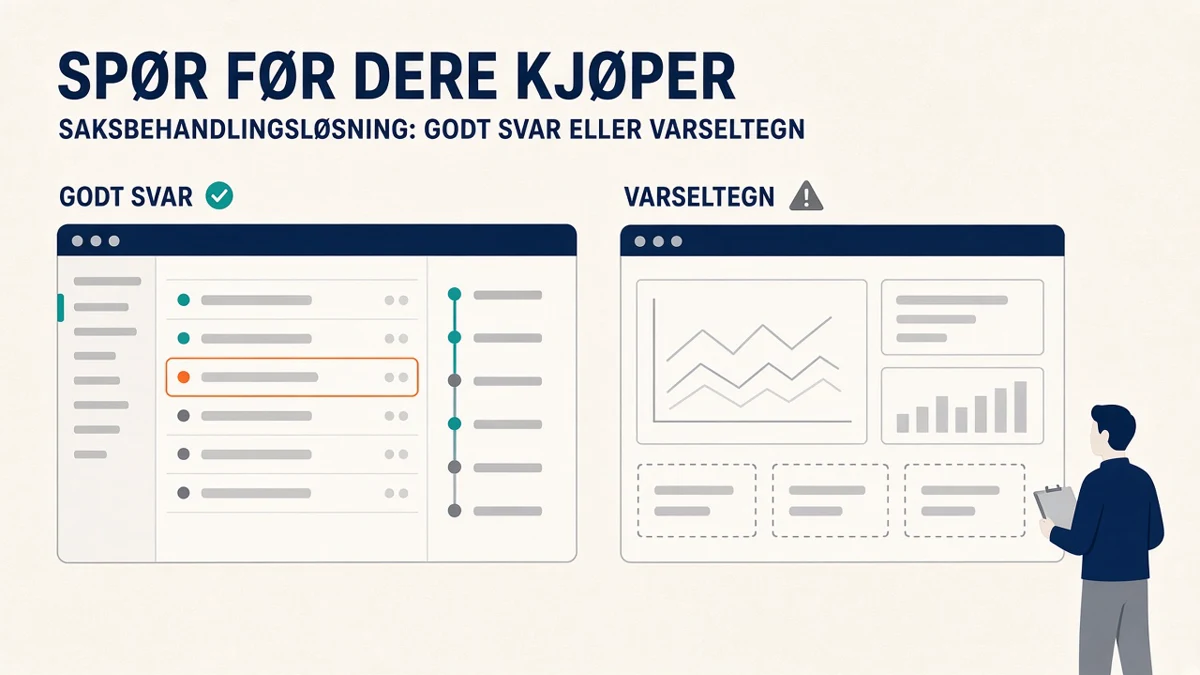
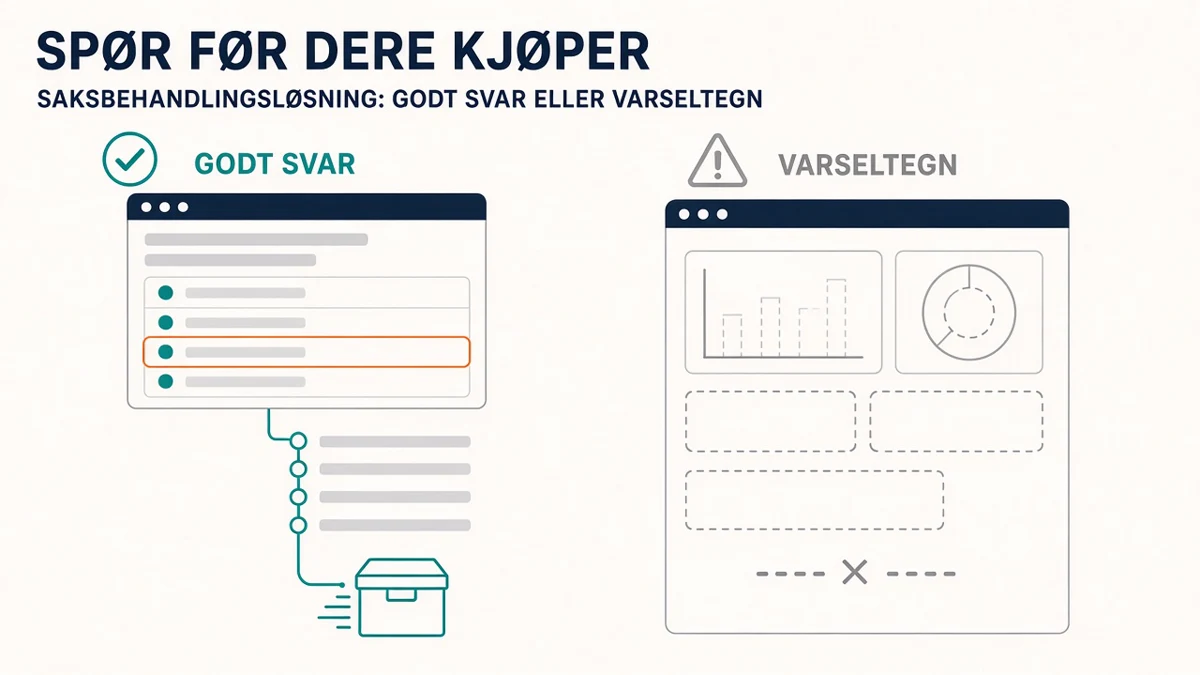
Follow-up to #190: table swipe hint a11y and gender-neutral copy (#191)
* Follow-up to #190: gender-neutral copy in saksbehandlingsløsning post

The mobile table swipe hint already has aria-hidden="true" in the shared
ArticleMarkdown wrapper (SPA and prerender). Rewrite one sentence that used
generic «hun» to gender-neutral Bokmål.

* Swap saksbehandlingsløsning cover and bust og:image cache

Replace the blog cover with the diagram-only 1200x675 webp. Add ?v=2 to the
post cover frontmatter so og:image, the hero img and prerendered HTML fetch the
new file despite one-year image cache headers. Use the approved gender-neutral
sentence with «for hånd».

* Fix XWEB-211 table node leak and rename supplier-meeting H2

Strip react-markdown's internal node prop from table/th/td overrides so it
never reaches the DOM in SPA or prerender output. Rename the H2 above the
comparison table to «Ta med denne tabellen til leverandørmøtet».

---------

diff --git a/src/components/blog/ArticleMarkdown.tsx b/src/components/blog/ArticleMarkdown.tsx
@@ -10,7 +10,13 @@ interface ArticleMarkdownProps {
   heading: (tag: 'h2' | 'h3') => HeadingRenderer;
 }
 
-function ArticleTable({ children, ...props }: React.TableHTMLAttributes<HTMLTableElement>) {
+type MarkdownNodeProps = { node?: unknown };
+
+function ArticleTable({
+  children,
+  node: _node,
+  ...props
+}: React.TableHTMLAttributes<HTMLTableElement> & MarkdownNodeProps) {
   return (
     <div className="article-table my-8 w-full min-w-0 not-prose">
       <p className="mb-2 text-xs text-muted-foreground md:hidden" aria-hidden="true">
@@ -25,7 +31,11 @@ function ArticleTable({ children, ...props }: React.TableHTMLAttributes<HTMLTabl
   );
 }
 
-function ArticleTh({ children, ...props }: React.ThHTMLAttributes<HTMLTableCellElement>) {
+function ArticleTh({
+  children,
+  node: _node,
+  ...props
+}: React.ThHTMLAttributes<HTMLTableCellElement> & MarkdownNodeProps) {
   return (
     <th
       {...props}
@@ -36,7 +46,11 @@ function ArticleTh({ children, ...props }: React.ThHTMLAttributes<HTMLTableCellE
   );
 }
 
-function ArticleTd({ children, ...props }: React.TdHTMLAttributes<HTMLTableCellElement>) {
+function ArticleTd({
+  children,
+  node: _node,
+  ...props
+}: React.TdHTMLAttributes<HTMLTableCellElement> & MarkdownNodeProps) {
   return (
     <td
       {...props}

diff --git a/src/components/blog/__tests__/ArticleMarkdown.test.tsx b/src/components/blog/__tests__/ArticleMarkdown.test.tsx
@@ -1,0 +1,32 @@
+import { createElement } from 'react';
+import { renderToStaticMarkup } from 'react-dom/server';
+import ReactMarkdown from 'react-markdown';
+import remarkGfm from 'remark-gfm';
+import { describe, expect, it } from 'vitest';
+
+import { articleMarkdownComponents } from '../ArticleMarkdown';
+
+const TABLE_MARKDOWN = `## Table
+
+| Spør om | Godt svar | Varseltegn |
+|---|---|---|
+| Én sak hele veien | En ekte sak vises live | Bare skjermbilder |
+`;
+
+/** Same renderer the prerender script uses for article body tables. */
+function renderArticleTableHtml(markdown: string): string {
+  return renderToStaticMarkup(
+    createElement(ReactMarkdown, { remarkPlugins: [remarkGfm], components: articleMarkdownComponents }, markdown),
+  );
+}
+
+describe('articleMarkdownComponents', () => {
+  it('does not leak react-markdown node props onto table elements', () => {
+    const html = renderArticleTableHtml(TABLE_MARKDOWN);
+
+    expect(html).not.toMatch(/node=/);
+    expect(html).toContain('<table');
+    expect(html).toContain('<th');
+    expect(html).toContain('<td');
+  });
+});

diff --git a/src/lib/blog/__tests__/content-structure.test.ts b/src/lib/blog/__tests__/content-structure.test.ts
@@ -73,7 +73,11 @@ describe('published post structure', () => {
       // field never added, so the card rendered with a hole in it and nothing
       // failed.
       expect(post.cover, `${post.slug} has no cover`).toBeTruthy();
-      const file = resolve(__dirname, '../../../../public', post.cover!.replace(/^\//, ''));
+      const file = resolve(
+        __dirname,
+        '../../../../public',
+        post.cover!.replace(/^\//, '').split('?')[0],
+      );
       expect(existsSync(file), `${post.cover} is not in public/`).toBe(true);
       const alt = coverAlt(post);
       expect(alt, `${post.slug} has an empty hero alt`).toBeTruthy();

diff --git a/src/content/blog/2026-09-28-saksbehandlingslosning-sporsmal-til-leverandoren.md b/src/content/blog/2026-09-28-saksbehandlingslosning-sporsmal-til-leverandoren.md
@@ -7,7 +7,7 @@ date: 2026-09-28
 author: "Ibrahim Rahmani"
 role: "Grunnlegger, Xala Technologies"
 tag: "Arkitekt"
-cover: "/images/blog/saksbehandlingslosning-sporsmal-til-leverandoren.webp"
+cover: "/images/blog/saksbehandlingslosning-sporsmal-til-leverandoren.webp?v=2"
 keywords:
   - sammenligne leverandører av saksbehandlingsløsninger
   - fordeler med moderne saksbehandlingsløsning
@@ -39,7 +39,7 @@ Spør leverandøren:
 
 **Varseltegn:** Dere får bare skjermbilder av oversikter og et løfte om at resten «fungerer på samme måte».
 
-Det avgjør om saksbehandleren får en kø med frister, eller en innboks hun må rydde selv hver morgen.
+Det avgjør om saksbehandleren får en kø med frister, eller en innboks som må ryddes for hånd hver morgen.
 
 ## Vedtak som tåler en klage
 
@@ -127,7 +127,7 @@ Spør leverandøren:
 
 Vi blir gjerne med videre gjennom [forvaltning og drift](https://xala.no/tjenester/forvaltning-og-drift), men vi kan også overlevere til kommunens eget team med dokumentasjon og opplæring. Kommunen skal ikke være låst, og innbyggerne skal ikke miste historikken sin fordi systemet byttes.
 
-## Godt svar / Varseltegn
+## Ta med denne tabellen til leverandørmøtet
 
 Skriv ut tabellen og bruk den i hver demo. Samme spørsmål, samme tabell, for alle leverandørene.
 
